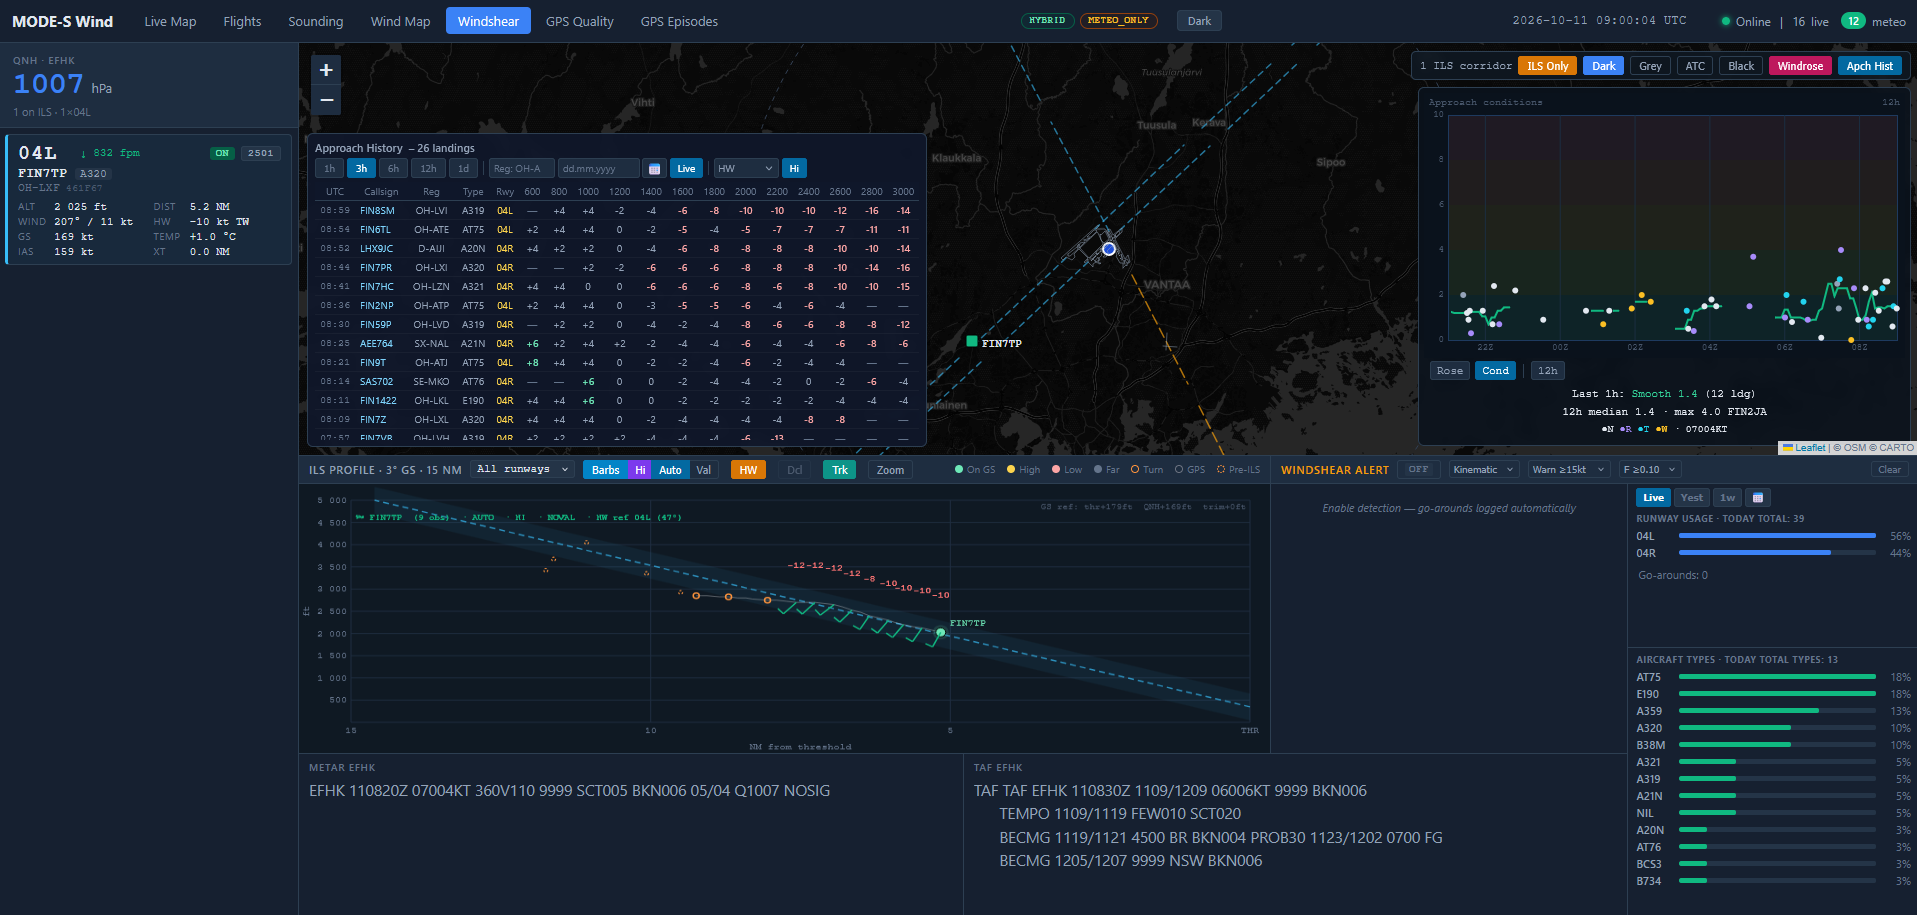
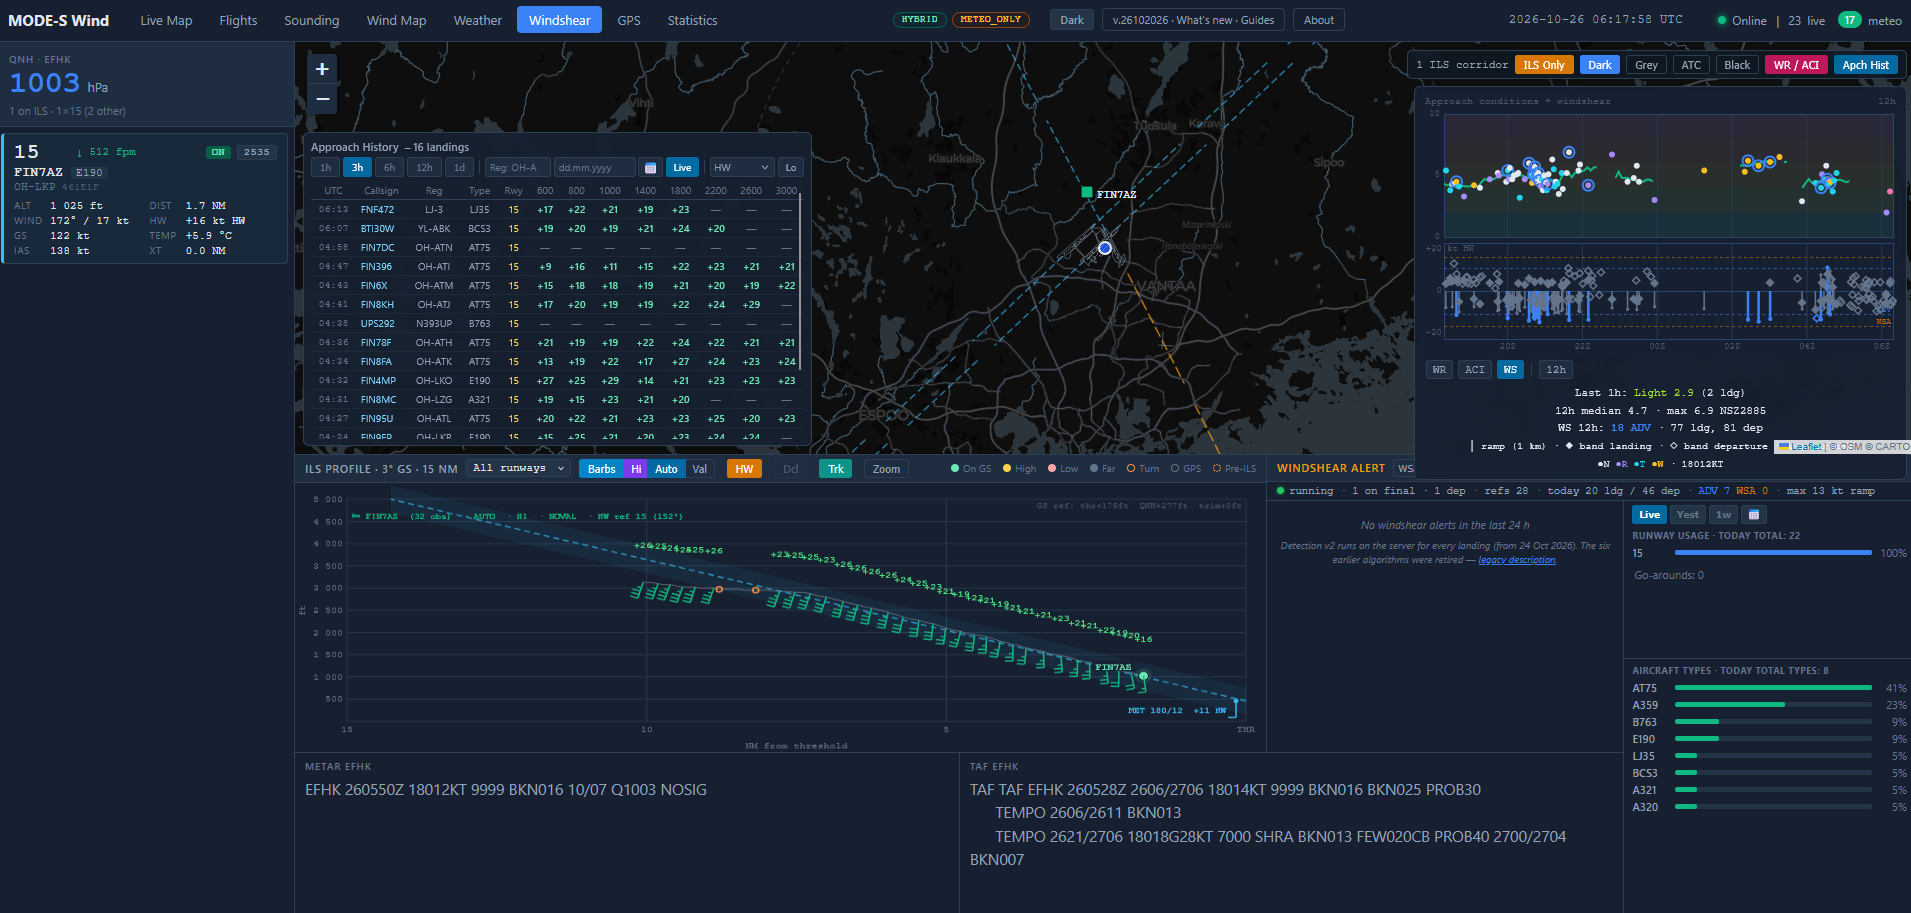
Screenshots updated

diff --git a/README.md b/README.md
@@ -683,9 +683,9 @@ Click the **✕** button to deselect and close the aircraft detail box. The META
 
 A permanently visible Skew-T Log-P diagram filling the full height of the right panel, which runs from the navigation bar to the bottom of the page (from 22 Oct 2026; before, the METAR/TAF strip ran under it). Its width follows the window height (about 590 px on a 1920 × 1080 screen — a little wider than before, room for the RH strip; at least 560 px, at most 45 % of the window). A user guide with screenshots — how to read the diagram, the upper-air parameters, where the data come from, all controls and analysis levels, the airport low-level profile, the METAR dewpoint and surface parcel (LCL, CAPE, Lifted Index), the data-quality indicator, the comparison profiles (Sonde, MEPS on the model's own levels, and the RH strip), the Sounding page and the limitations — is in [`doc/SkewT_User_Guide.pdf`](doc/SkewT_User_Guide.pdf). The canvas automatically sizes itself to the available space when the page loads and reflows whenever the browser window is resized, giving maximum vertical resolution for the profile. The diagram uses a log-pressure Y axis and a skewed temperature X axis, with the ISA (International Standard Atmosphere) reference temperature shown as a dashed blue line.
 
-<p align="center"><img src="doc/Mode_S_Wind_SkewT_1.png" alt="MODE-S Wind Atmosphere Profile (Skew-T) with Analysis Full" width="540"></p>
+<p align="center"><img src="doc/Mode_S_Wind_SkewT_1.png" alt="MODE-S Wind Atmosphere Profile (Skew-T) with the sonde, MEPS and RH panel, Analysis: Stability"></p>
 
-*Atmosphere Profile with **Analysis: Full** on a low-stratus morning (METAR 05/04, SCT005 BKN006): tropopause, jet, 0 / −10 / −20 °C levels, contrail level, the inversion on top of the stratus (`INV +4.4° FL005–015`), the fog / low-stratus flag, and the LCL from the METAR dewpoint (400 ft) next to the METAR cloud base (SCT005).*
+*Atmosphere Profile on the morning of 26 Oct 2026 (METAR 18012KT 10/07 BKN016) with the Jokioinen sounding, the MEPS model and the RH panel switched on, the airport profile as an overlay and **Analysis: Stability** of the MEPS profile: the stability bar at the left, two humid layers (`CLOUD 1,700ft–5,300ft` and `CLOUD FL160–FL271`), the inversion over the airport (`INV apt +3.5° 400–1000ft MSL`), the jet (91 kt at FL310) and the 0 / −10 / −20 °C levels; the header lines give the data quality, the airport traffic, and the differences area − sonde and area − MEPS.*
 
 **Scales** — pressure (hPa) on the left, altitude markers (**1–12 km**, pressure altitude) just right of the pressure axis, and the temperature scale (−40 … +30 °C at the bottom of the skewed axis) below the plot. The panel is at least 540 px wide (wider on tall screens, see *Layout* above) and the temperature range is centred on the typical profile, so the curve stays clear of the wind barbs. The dashed blue line is the ISA reference.
 
@@ -1635,6 +1635,10 @@ The **detail popup** of an episode also shows the number of *severe* sweeps (pos
 ### Statistics  `/stats`
 
 User guide with the Mode S / ADS-B background, every register, the signal strength, range rings and health indicators, and what can be analysed: [`doc/Statistics_User_Guide.pdf`](doc/Statistics_User_Guide.pdf) (version 1.2; also the **?** at the right end of the summary bar).
+
+![MODE-S Wind Statistics page](doc/Statistics_Screen_1.png)
+
+*The Statistics page over a 24 h window (26 Oct 2026, 06:19 UTC): aircraft and EHS aircraft per minute, downlink formats, signal strength, Comm-B registers, ADS-B type codes, interrogators, reply cadence and range rings, with the system health dots at the top right.*
 
 What the receiver hears from the aircraft, as counted by the collector (`collector/msg_stats.py`, from 25 Oct 2026), in RAM. **Kept over restarts** (from 25 Oct 2026 evening): each closed clock hour is written as one compressed row to `msg_stats_hours` (about 10–50 kB, within a minute of the hour's end; kept `MSG_STATS_DAYS`, default 7, days), and at a clean stop (systemd restart, Ctrl+C) the hour in progress, the minute records, the 24 h and 10-s chart series, the interrogators' first / last times and the recent health changes are saved in one row (`msg_stats_state`, a few hundred kB) and read back at the start. The time the server was down is a break in the charts and is not counted in the rates; the health panel lists the restart. After a crash or a power cut only the hour in progress is lost. About 0.3–1 MB of writes a day. The page asks the server every 10 s (not while its browser tab is hidden). The **Window** buttons (*1 min* / *10 min* / *1 h* / *24 h*, remembered in the browser) choose the period of the tables, the signal histogram and the range rings; the rates are per second over that period. *24 h* (from 25 Oct 2026 evening) is the last 23 full clock hours plus the current one (since the history begins, if later); the time covered is shown at the right of the summary bar. Counting costs a few microseconds per message.
 

diff --git a/CHANGELOG.md b/CHANGELOG.md
@@ -26,6 +26,7 @@ notes of the latest versions are in `doc/whats_new.md` (the **What's new** windo
 ### Documentation
 - Statistics user guide v1.2: new section on the Radarcape receiver panel and the Radarcape health indicator; range-ring centre (`doc/Statistics_User_Guide.pdf`, `doc/guides.md`).
 - README: Statistics section (Radarcape receiver panel, health table, range-ring centre), configuration (`RADARCAPE_STATUS`), architecture, file tree and API.
+- README screenshots renewed (main screen, Approach / Windshear, Skew-T) and a new one of the Statistics page (`doc/Statistics_Screen_1.png`, with a caption); the Skew-T picture is shown at its own size (765 px) with a new caption.
 
 ---
 
